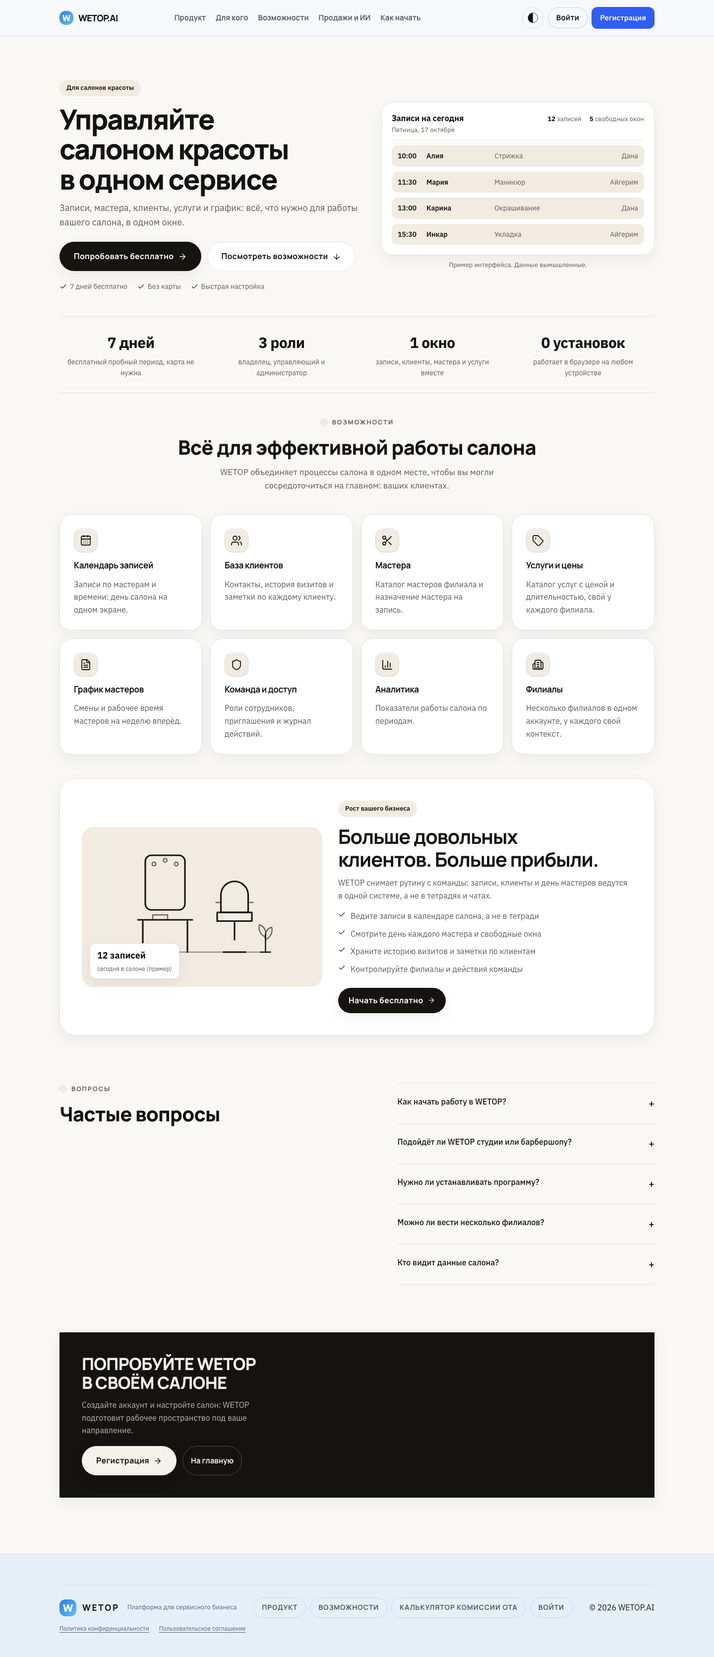
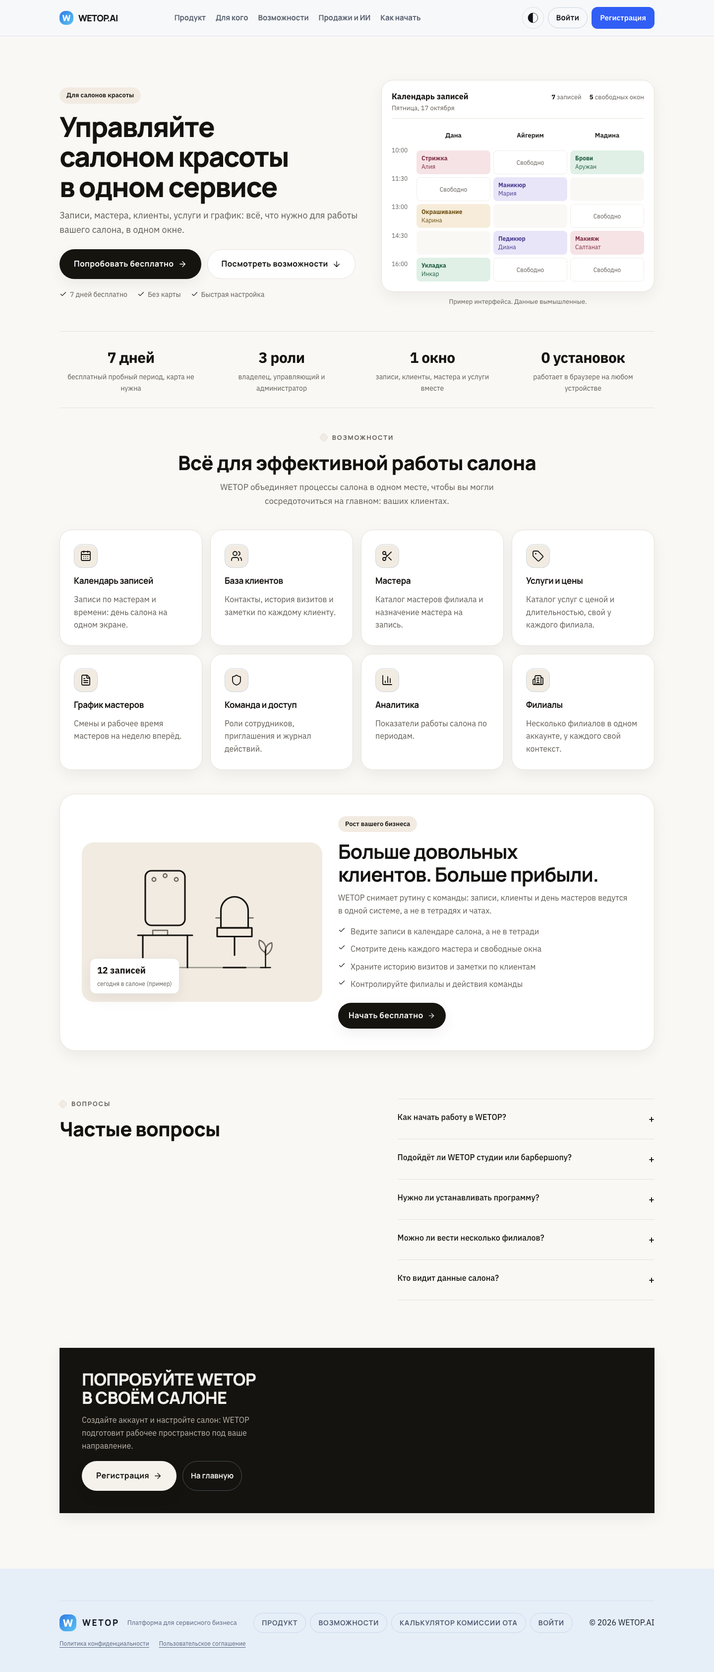
feat(site): salon hero mock becomes a per-master bookings calendar
Owner asked for a real salon calendar in the hero. Three master columns
(two on phone), pastel appointment chips (--salon-apt1..4 token pairs),
dashed free slots, time rail; fictional data with the example caption
kept. Red 1/5 -> green 5/5, full site suite 81/81, guard 6/6.

diff --git a/apps/site/src/app/globals.css b/apps/site/src/app/globals.css
@@ -3396,39 +3396,88 @@ button {
 .salon-hero__mock-summary strong {
   color: var(--salon-text);
 }
-.salon-hero__mock-row {
+.salon-hero__cal {
   display: grid;
-  grid-template-columns: 48px minmax(0, 1fr) minmax(0, 1.2fr) minmax(0, 1fr);
-  gap: 10px;
-  align-items: center;
-  padding: 10px 12px;
-  border-radius: var(--radius-control);
-  background: var(--salon-chip);
-  font-size: 0.875rem;
+  grid-template-columns: 44px repeat(3, minmax(0, 1fr));
+  gap: 6px;
 }
-.salon-hero__mock-time {
-  color: var(--salon-text);
-  font-weight: 600;
-  font-variant-numeric: tabular-nums;
-}
-.salon-hero__mock-client {
-  font-weight: 600;
-}
-.salon-hero__mock-service {
-  color: var(--salon-muted);
-}
-.salon-hero__mock-master {
-  color: var(--salon-muted);
-  text-align: right;
-}
-/* На узком экране строка записи складывается в две: время + клиент + мастер, ниже услуга во всю ширину */
+/* На телефоне третья колонка мастера прячется, календарь остаётся читаемым */
 @media (max-width: 40rem) {
-  .salon-hero__mock-row {
-    grid-template-columns: 48px minmax(0, 1fr) minmax(0, 1fr);
+  .salon-hero__cal {
+    grid-template-columns: 44px repeat(2, minmax(0, 1fr));
   }
-  .salon-hero__mock-service {
-    grid-column: 2 / 4;
+  .salon-hero__col:last-child {
+    display: none;
   }
+}
+.salon-hero__rail,
+.salon-hero__col {
+  display: grid;
+  gap: 6px;
+}
+.salon-hero__rail > span,
+.salon-hero__col > span {
+  min-height: 48px;
+}
+.salon-hero__rail > span {
+  display: flex;
+  align-items: flex-start;
+  color: var(--salon-muted);
+  font-size: 0.75rem;
+  font-variant-numeric: tabular-nums;
+  padding-top: 6px;
+}
+.salon-hero__master {
+  display: flex;
+  align-items: center;
+  justify-content: center;
+  min-height: 28px;
+  font-size: 0.8125rem;
+  font-weight: 600;
+}
+.salon-hero__rail .salon-hero__master {
+  min-height: 28px;
+}
+.salon-hero__apt {
+  display: grid;
+  gap: 2px;
+  align-content: center;
+  padding: 6px 10px;
+  border-radius: var(--radius-sm);
+  font-size: 0.75rem;
+  line-height: 1.3;
+}
+.salon-hero__apt strong {
+  font-size: 0.75rem;
+}
+.salon-hero__apt--1 {
+  background: var(--salon-apt1-bg);
+  color: var(--salon-apt1-ink);
+}
+.salon-hero__apt--2 {
+  background: var(--salon-apt2-bg);
+  color: var(--salon-apt2-ink);
+}
+.salon-hero__apt--3 {
+  background: var(--salon-apt3-bg);
+  color: var(--salon-apt3-ink);
+}
+.salon-hero__apt--4 {
+  background: var(--salon-apt4-bg);
+  color: var(--salon-apt4-ink);
+}
+.salon-hero__free {
+  display: flex;
+  align-items: center;
+  justify-content: center;
+  border: 1px dashed var(--salon-border);
+  border-radius: var(--radius-sm);
+  color: var(--salon-muted);
+  font-size: 0.75rem;
+}
+.salon-hero__slot {
+  border-radius: var(--radius-sm);
+  background: var(--salon-bg);
 }
 
 /* Полоса фактов: большие числа на светлой полосе, как в макете; только числа продукта (§19.9) */

diff --git a/apps/site/src/i18n/ru.ts b/apps/site/src/i18n/ru.ts
@@ -355,18 +355,41 @@ export const ru: Dictionary = {
     chips: ['7 дней бесплатно', 'Без карты', 'Быстрая настройка'],
     mock: {
       label: 'Пример интерфейса. Данные вымышленные.',
-      title: 'Записи на сегодня',
+      title: 'Календарь записей',
       date: 'Пятница, 17 октября',
       summary: [
-        { name: 'записей', value: '12' },
+        { name: 'записей', value: '7' },
         { name: 'свободных окон', value: '5' },
       ],
-      rows: [
-        { time: '10:00', client: 'Алия', service: 'Стрижка', master: 'Дана' },
-        { time: '11:30', client: 'Мария', service: 'Маникюр', master: 'Айгерим' },
-        { time: '13:00', client: 'Карина', service: 'Окрашивание', master: 'Дана' },
-        { time: '15:30', client: 'Инкар', service: 'Укладка', master: 'Айгерим' },
+      times: ['10:00', '11:30', '13:00', '14:30', '16:00'],
+      masters: [
+        {
+          name: 'Дана',
+          appointments: [
+            { time: '10:00', service: 'Стрижка', client: 'Алия', tone: 1 },
+            { time: '13:00', service: 'Окрашивание', client: 'Карина', tone: 4 },
+            { time: '16:00', service: 'Укладка', client: 'Инкар', tone: 3 },
+          ],
+          free: ['11:30'],
+        },
+        {
+          name: 'Айгерим',
+          appointments: [
+            { time: '11:30', service: 'Маникюр', client: 'Мария', tone: 2 },
+            { time: '14:30', service: 'Педикюр', client: 'Диана', tone: 2 },
+          ],
+          free: ['10:00', '16:00'],
+        },
+        {
+          name: 'Мадина',
+          appointments: [
+            { time: '10:00', service: 'Брови', client: 'Аружан', tone: 3 },
+            { time: '14:30', service: 'Макияж', client: 'Салтанат', tone: 1 },
+          ],
+          free: ['13:00', '16:00'],
+        },
       ],
+      freeLabel: 'Свободно',
     },
     facts: [
       { value: '7 дней', text: 'бесплатный пробный период, карта не нужна' },

diff --git a/apps/site/src/app/for/salons/page.tsx b/apps/site/src/app/for/salons/page.tsx
@@ -67,14 +67,36 @@ export default function SalonLandingPage() {
                   ))}
                 </div>
               </div>
-              {s.mock.rows.map((row) => (
-                <div className="salon-hero__mock-row" key={row.time}>
-                  <span className="salon-hero__mock-time">{row.time}</span>
-                  <span className="salon-hero__mock-client">{row.client}</span>
-                  <span className="salon-hero__mock-service">{row.service}</span>
-                  <span className="salon-hero__mock-master">{row.master}</span>
+              <div className="salon-hero__cal">
+                <div className="salon-hero__rail">
+                  <span className="salon-hero__master" aria-hidden="true" />
+                  {s.mock.times.map((time) => (
+                    <span key={time}>{time}</span>
+                  ))}
                 </div>
-              ))}
+                {s.mock.masters.map((master) => (
+                  <div className="salon-hero__col" key={master.name}>
+                    <span className="salon-hero__master">{master.name}</span>
+                    {s.mock.times.map((time) => {
+                      const apt = master.appointments.find((a) => a.time === time);
+                      if (apt)
+                        return (
+                          <span key={time} className={`salon-hero__apt salon-hero__apt--${apt.tone}`}>
+                            <strong>{apt.service}</strong>
+                            {apt.client}
+                          </span>
+                        );
+                      if (master.free.includes(time))
+                        return (
+                          <span key={time} className="salon-hero__free">
+                            {s.mock.freeLabel}
+                          </span>
+                        );
+                      return <span key={time} className="salon-hero__slot" />;
+                    })}
+                  </div>
+                ))}
+              </div>
             </div>
             <figcaption>{s.mock.label}</figcaption>
           </figure>

diff --git a/apps/site/src/i18n/types.ts b/apps/site/src/i18n/types.ts
@@ -199,13 +199,21 @@ export type Dictionary = {
     secondary: string;
     /** Чипы под кнопками героя: «7 дней бесплатно» и т.п. (ADR-098). */
     chips: string[];
-    /** Мокап «Записи на сегодня»: только вымышленные данные, подпись примера обязательна. */
+    /** Мокап-календарь записей по мастерам: только вымышленные данные, подпись примера обязательна. */
     mock: {
       label: string;
       title: string;
       date: string;
       summary: Array<{ name: string; value: string }>;
-      rows: Array<{ time: string; client: string; service: string; master: string }>;
+      /** Строки времени календаря; у мастера запись ищется по точному совпадению времени. */
+      times: string[];
+      masters: Array<{
+        name: string;
+        appointments: Array<{ time: string; service: string; client: string; tone: 1 | 2 | 3 | 4 }>;
+        /** Времена со «Свободно»: показываются пунктирной ячейкой. */
+        free: string[];
+      }>;
+      freeLabel: string;
     };
     /** Полоса фактов: только числа продукта (§19.9), чисел клиентов не бывает. */
     facts: Array<{ value: string; text: string }>;

diff --git a/tests/site/salon-landing.spec.ts b/tests/site/salon-landing.spec.ts
@@ -23,9 +23,12 @@ test('герой: заголовок, регистрация с направле
     'href',
     '#salon-features',
   );
-  // Мокап записей: вымышленные данные, подпись примера, интерактива внутри нет (§19.9)
+  // Мокап-календарь по мастерам: вымышленные данные, подпись примера, интерактива внутри нет (§19.9)
   await expect(hero).toContainText('Пример интерфейса. Данные вымышленные.');
   await expect(hero.locator('.salon-hero__mock a, .salon-hero__mock button')).toHaveCount(0);
+  expect(await hero.locator('.salon-hero__apt').count(), 'записей в календаре').toBeGreaterThanOrEqual(5);
+  await expect(hero.locator('.salon-hero__col').first()).toContainText('Дана');
+  await expect(hero.locator('.salon-hero__free').first()).toContainText('Свободно');
 });
 
 test('полоса фактов и возможности: восемь карточек, без выдуманных чисел', async ({ page }) => {

diff --git a/apps/site/src/app/tokens.css b/apps/site/src/app/tokens.css
@@ -335,4 +335,13 @@
   --salon-band-muted: #beb8ad;
   --salon-band-hover: #ffffff;
   --salon-shadow: 0 10px 30px rgba(21, 19, 15, 0.06);
+  /* Пастельные тона записей мокап-календаря: фон и текст парами, контраст не ниже 4.5 */
+  --salon-apt1-bg: #f6e3e6;
+  --salon-apt1-ink: #7f2d43;
+  --salon-apt2-bg: #e9e5f8;
+  --salon-apt2-ink: #46398f;
+  --salon-apt3-bg: #e0f0e6;
+  --salon-apt3-ink: #1f5c40;
+  --salon-apt4-bg: #f6ecd9;
+  --salon-apt4-ink: #6e4f14;
 }

diff --git a/CLAUDE.md b/CLAUDE.md
@@ -38,7 +38,7 @@
 
 **10.10.2026, левое контекстное меню вместо строки вкладок в шапке по ТЗ «Новая навигация админки» (локальная сессия, worktree `.claude/worktrees/sidebar-nav`, ветка `claude/sidebar-navigation`; ADR-161, DESIGN.md §8 «Левое меню»; поручение владельца с макетом и ТЗ «реализуй эту логику... четко как в ТЗ»).** На компьютере (с 961 px) слева колонка 232 px (`shell/side-nav.tsx`, `side-nav.css`): знак, синяя кнопка текущего раздела, под ней его подразделы, внизу пробный срок и свежесть Channex. Наведение или щелчок открывает панель: слева все разделы, справа подразделы наведённого; щелчок ведёт на страницу, панель закрывается, кнопка показывает новый раздел. Закрытие уходом курсора (150 мс и мостик через зазор), щелчком мимо, Escape, уходом фокуса, переходом; клавиатура ↓ ↑ → ← Home End (фокус через `flushSync`, потому что `requestAnimationFrame` в фоновой вкладке не срабатывает); анимация `--ease`, без неё при reduced motion. Состав и права прежние (`menuSectionsFor`, ADR-107), подразделы всех разделов лежат в разметке скрытыми, каждый адрес меню ровно один раз. Шапка одной строкой, `top-menu.tsx`/`.css` удалены; телефон и планшет без изменений. API, модель данных, права и миграции не менялись. **Тесты:** `top-menu.spec.ts` стал `side-nav.spec.ts` (**5/5**, `…13-10-00Z-e2e-3145.log`: поток ТЗ, клавиатура, вложенные адреса, axe в двух темах на 1024/1280/1440 и телефоне); 22 спека переведены с `.topmenu` на помощники `openSection`, `goViaMenu`, `menuLinks`, `sideNav` в `tests/ui/fixtures.ts` (грабля: закрытая панель `visibility: hidden`, поэтому `getByRole` в неё нужен с `includeHidden: true` или CSS-селектор); typecheck и lint чисто (`…13-14-10Z`, `…13-14-51Z`), сторожа дизайна 33/33 (литерал ширины стал местной `--sidenav-w`, внесена в сторож токенов). **Не доказано локально, прямо:** прогон 23 затронутых спеков на этом Mac снят при load average до 248 (чужие `tsc`, VM, `npm ci` соседних сессий; 31 зелёный, 16 красных таймаутами на входе); по решению владельца проверка идёт гейтом `release-checks` на ветке. Полный unit 4463/4478, 11 красных: 2 сторожа отступов (мои, исправлены), 9 под нагрузкой, отдельно 175/175. **Не сделано из макета:** «Быстрые действия» и «Уведомления» в колонке (экранов нет), подпись-описание раздела в панели (текстов нет в реестре); шаги обучения про разделы встают по центру, а не подсвечивают пункт закрытой панели.
 
-**10.10.2026, лендинг «Для салонов красоты» на `/for/salons/` по макету и ТЗ владельца (локальная сессия в worktree, ветка `claude/beauty-salons-landing` от `origin/main`; план `plans/salon-landing-2026-10-10.md`, отчёт и снимки `reports/salon-landing-2026-10-10/`).** Страница `/for/salons/` пересобрана из общего шаблона `for/[segment]` в полноценный лендинг по структуре ТЗ: герой с бейджем, двумя кнопками (регистрация `?vertical=BEAUTY` и якорь возможностей), чипами и мокапом «Записи на сегодня» (вымышленные данные, подпись примера); полоса фактов продукта; восемь возможностей `card-grid--4` (календарь записей, клиенты, мастера, услуги и цены, график, команда и доступ, аналитика, филиалы — всё из того, что есть в стойке салона); блок роста «Больше довольных клиентов. Больше прибыли.» с рисунком салона на SVG и пунктами без процентов; пять вопросов `.faq`; призыв `.cta`. Карточка «Салоны красоты» на главной и чип героя уже вели на этот адрес, менять их не пришлось. Новые блоки `.salon-hero`, `.salon-facts`, `.salon-growth` внесены в DESIGN.md §19.5; тексты в `i18n/ru.ts` → `salon`; `salons` ушёл из `for/[segment]` (SLUGS, словарь `segments.items`, `Exclude` в типе). **Отличия от макета по §19.9, прямо (Q-SALON-1…3):** «2 000+ салонов», «+40 %», «4.9★» и кейсы Luxe Beauty/Monroe Studio/Selfie Beauty не поставлены (клиентов и отзывов нет), тарифов нет (Q-141/Q-143), «14 дней бесплатно» заменено на «7 дней» (ADR-098), фото заменены мокапом и SVG (стоки запрещены, кредитов на генерацию нет). Red → green: новый `tests/site/salon-landing.spec.ts` 3 из 5 красных на старом шаблоне (`…12-18-03Z-e2e-912a`) → зелёный; сторож сайта 6/6 (`…12-23-12Z-unit-a086`). На полном наборе сайта 80 из 81 (`…12-23-46Z-e2e-c860`): единственный красный — контраст в тёмной теме на этой же новой странице, на спокойной машине не воспроизводился (0 нарушений axe вручную на 1440 и 390); вероятная причина — наезд длинной услуги на соседнюю колонку мокапа на 390 до загрузки шрифта, строка мокапа на телефоне переложена в две строки, итоговые прогоны см. в отчёте. API, модель данных, миграции и стойка не тронуты; выкладка главной — отдельный путь (`npm run site:deploy`, владелец, только из свежего клона `main`: рабочая папка на Mac отстаёт от GitHub на ~90 коммитов и держит незакоммиченный ресторанный модуль, запуск `site:deploy` из неё 10.10 был остановлен до выбора аккаунта wrangler). **Вторая итерация тем же днём (владелец: «я отправляю одно, а ты делаешь другое, заточено под дизайн-систему; вот его и делай»):** вид приведён 1:1 к макету, решение владельца поверх стеклянного направления (аналог ADR-132 и вкладок бара ADR-157): палитра `--salon-*` в `tokens.css` (тёплый светлый фон, белые сплошные карточки, чёрная кнопка, бежевые плашки и плитки иконок, тёмная финальная плита `.salon-cta`) живёт только внутри `.salon-page` подменой семантических токенов; стекла на странице нет; полоса фактов большими числами между линий; на иллюстрации роста плавающая карточка «12 записей» со словом «пример»; чип героя стал «Быстрая настройка», как в макете. Содержимое не менялось: по-прежнему без чисел клиентов, кейсов и тарифов (Q-SALON-1…3). **Плавающий красный гейта разобран до причины и закрыт:** axe замерял контраст кнопок посреди анимации перехода темы, потому что спеки ставили тему через localStorage, а она применяется после первой отрисовки (середина перехода давала фон #7c8188 при тексте #f2f7ff, 3.64); `salon-landing.spec.ts` и `public-intro.spec.ts` теперь ставят тему ещё и `emulateMedia({colorScheme, reducedMotion:'reduce'})`; падавшие «public intro: dark, 320/390» на моей странице не завязаны и краснели независимо. Настоящая вспышка светлой темы у пользователя с сохранённой тёмной остаётся особенностью сайта, названа владельцу. Прогоны финального вида: сторож 6/6 (`…13-43-20Z-unit-eda1`), полный набор сайта **81 из 81** (`…13-45-36Z-e2e-bbfc`), typecheck и lint чисто. **Третья итерация (владелец посмотрел живую в тёмной теме: «раньше лучше было»):** тёмный вариант тёплой палитры был мутно-коричневым; тёмные значения `--salon-*` сняты, страница всегда светлая, как макет (шапка и подвал общие); спек салонов 5/5 (`…14-38-38Z-e2e-1408`), полный набор **81 из 81** (`…15-13-45Z-e2e-2e6e`), typecheck и lint чисто.
+**10.10.2026, лендинг «Для салонов красоты» на `/for/salons/` по макету и ТЗ владельца (локальная сессия в worktree, ветка `claude/beauty-salons-landing` от `origin/main`; план `plans/salon-landing-2026-10-10.md`, отчёт и снимки `reports/salon-landing-2026-10-10/`).** Страница `/for/salons/` пересобрана из общего шаблона `for/[segment]` в полноценный лендинг по структуре ТЗ: герой с бейджем, двумя кнопками (регистрация `?vertical=BEAUTY` и якорь возможностей), чипами и мокапом «Записи на сегодня» (вымышленные данные, подпись примера); полоса фактов продукта; восемь возможностей `card-grid--4` (календарь записей, клиенты, мастера, услуги и цены, график, команда и доступ, аналитика, филиалы — всё из того, что есть в стойке салона); блок роста «Больше довольных клиентов. Больше прибыли.» с рисунком салона на SVG и пунктами без процентов; пять вопросов `.faq`; призыв `.cta`. Карточка «Салоны красоты» на главной и чип героя уже вели на этот адрес, менять их не пришлось. Новые блоки `.salon-hero`, `.salon-facts`, `.salon-growth` внесены в DESIGN.md §19.5; тексты в `i18n/ru.ts` → `salon`; `salons` ушёл из `for/[segment]` (SLUGS, словарь `segments.items`, `Exclude` в типе). **Отличия от макета по §19.9, прямо (Q-SALON-1…3):** «2 000+ салонов», «+40 %», «4.9★» и кейсы Luxe Beauty/Monroe Studio/Selfie Beauty не поставлены (клиентов и отзывов нет), тарифов нет (Q-141/Q-143), «14 дней бесплатно» заменено на «7 дней» (ADR-098), фото заменены мокапом и SVG (стоки запрещены, кредитов на генерацию нет). Red → green: новый `tests/site/salon-landing.spec.ts` 3 из 5 красных на старом шаблоне (`…12-18-03Z-e2e-912a`) → зелёный; сторож сайта 6/6 (`…12-23-12Z-unit-a086`). На полном наборе сайта 80 из 81 (`…12-23-46Z-e2e-c860`): единственный красный — контраст в тёмной теме на этой же новой странице, на спокойной машине не воспроизводился (0 нарушений axe вручную на 1440 и 390); вероятная причина — наезд длинной услуги на соседнюю колонку мокапа на 390 до загрузки шрифта, строка мокапа на телефоне переложена в две строки, итоговые прогоны см. в отчёте. API, модель данных, миграции и стойка не тронуты; выкладка главной — отдельный путь (`npm run site:deploy`, владелец, только из свежего клона `main`: рабочая папка на Mac отстаёт от GitHub на ~90 коммитов и держит незакоммиченный ресторанный модуль, запуск `site:deploy` из неё 10.10 был остановлен до выбора аккаунта wrangler). **Вторая итерация тем же днём (владелец: «я отправляю одно, а ты делаешь другое, заточено под дизайн-систему; вот его и делай»):** вид приведён 1:1 к макету, решение владельца поверх стеклянного направления (аналог ADR-132 и вкладок бара ADR-157): палитра `--salon-*` в `tokens.css` (тёплый светлый фон, белые сплошные карточки, чёрная кнопка, бежевые плашки и плитки иконок, тёмная финальная плита `.salon-cta`) живёт только внутри `.salon-page` подменой семантических токенов; стекла на странице нет; полоса фактов большими числами между линий; на иллюстрации роста плавающая карточка «12 записей» со словом «пример»; чип героя стал «Быстрая настройка», как в макете. Содержимое не менялось: по-прежнему без чисел клиентов, кейсов и тарифов (Q-SALON-1…3). **Плавающий красный гейта разобран до причины и закрыт:** axe замерял контраст кнопок посреди анимации перехода темы, потому что спеки ставили тему через localStorage, а она применяется после первой отрисовки (середина перехода давала фон #7c8188 при тексте #f2f7ff, 3.64); `salon-landing.spec.ts` и `public-intro.spec.ts` теперь ставят тему ещё и `emulateMedia({colorScheme, reducedMotion:'reduce'})`; падавшие «public intro: dark, 320/390» на моей странице не завязаны и краснели независимо. Настоящая вспышка светлой темы у пользователя с сохранённой тёмной остаётся особенностью сайта, названа владельцу. Прогоны финального вида: сторож 6/6 (`…13-43-20Z-unit-eda1`), полный набор сайта **81 из 81** (`…13-45-36Z-e2e-bbfc`), typecheck и lint чисто. **Третья итерация (владелец посмотрел живую в тёмной теме: «раньше лучше было»):** тёмный вариант тёплой палитры был мутно-коричневым; тёмные значения `--salon-*` сняты, страница всегда светлая, как макет (шапка и подвал общие); спек салонов 5/5 (`…14-38-38Z-e2e-1408`), полный набор **81 из 81** (`…15-13-45Z-e2e-2e6e`), typecheck и lint чисто. **Четвёртая итерация («давай тут календарь добавь»):** мокап героя стал календарём записей по мастерам (три колонки, пастельные записи тонами `--salon-apt1…4`, «Свободно» пунктиром, на телефоне две колонки); red → green 1 из 5 → 5/5 (`…15-50-35Z-e2e-8cc4`), полный набор **81 из 81** (`…15-51-34Z-e2e-72b3`). Владелец предложил дать ключ сервиса генерации изображений для настоящих фото на лендингах; жду имя переменной в `.env` (значение вписывает владелец, SECURITY.md).
 
 **10.10.2026, «Продажи 2.0» целиком по макету владельца: хаб, «Загрузка конкурентов» с ценами, «ИИ-продавец» с семью вкладками, версии инструкции, ведение диалога (ветка `claude/sales2-impl`, слита с `main`; владелец «окей норм иди дальше» по снимкам и «подготовь всё и сливаем»).** **Что в `main`:** хаб `/sales` (6 плиток, 3 карточки); конкуренты: район, тип, адрес, режим мониторинга, цены за ночь (`competitor_rates`, DATA_MODEL §23.1), список со свежестью данных, отбор, график цен, окно «Добавить конкурента» с вкладкой «AI-поиск» как честной заглушкой (площадки автоматически не читаем, ADR-142 п. 7); ИИ-продавец: «Обзор», «Диалоги» в три колонки с поиском, ответственным, следующим шагом и внутренними заметками, «Подключения» со сводкой каналов, «Сценарии» (список; конструктор SA3 не начат), «Аналитика» (воронка предложение, бронь, выручка; доля без человека, передачи, время первого ответа за сутки), версии инструкции с возвратом (DATA_MODEL §33). **Миграции, которые применяет владелец на рабочей базе ДО выкладки кода (иначе автовыкладка откажет, ADR-152):** PMS `20261009000070_competitor_rates` (отдельно от одноимённого по номеру `…070_accommodation_type_photos`, имена разные) и `20261010000078_seller_prompt_versions`; бот `0012_conversation_handling` ставится САМИМ образом при старте: это ветка от `0009` (не продолжение `0010/0011`, которые остаются ручными), точка входа бота (`scripts/docker-entrypoint.sh`) теперь после `upgrade 0009` делает `upgrade 0012`, а модель бота читает её колонки, поэтому образ с ними нельзя запускать на базе без `0012` (находка: тест `test_the_runtime_by_agent_works_on_the_expand_schema` падал ровно на этом). Руками ничего применять не нужно, достаточно пересобрать образ бота; у цепочки теперь две головы (`0011` и `0012`), тесты применяют `heads`. Откат каждой проверен на локальной базе вверх, вниз, снова вверх; все аддитивные. **Проверки на слитом дереве:** typecheck и lint чисто, unit 4471 из 4478 (красные: `guard-run` ADR-137 и `auth.service` scrypt красны и без моих правок, `test-journal-merge` зелёный отдельно, под нагрузкой плавает), integration 995 из 995 на настоящей локальной базе, бот: метрики, ведение диалога, очередь и область агента 44 из 44, UI затронутых наборов зелёные по частям (рынок, хаб, продавец, меню, роли). Мутации по каждой новой логике краснеют. **Не сделано и почему:** автообновление цен конкурентов и AI-поиск (нужен разрешённый источник данных, Q-257…Q-260 закрыты умолчанием «площадки не читаем»), версии документов знаний (у документа в боте нет прошлых редакций), конструктор сценариев SA3 (отдельное решение), таблица каналов с действиями. Грабли: `SetupWizard` берёт шаг по номеру дочернего элемента, поэтому новый блок мастера вкладывается в существующий шаг, а не добавляется рядом; первый прямой переход после смены роли в подставном API разворачивает стойку на стартовую страницу роли (тесты идут через неё и меню); heredoc с кириллицей в `/usr/bin/python3` 3.9 падает на длинных строках, скрипты запускать как `exec(compile(open(f,encoding='utf-8').read(),...))`.
 

diff --git a/DESIGN.md b/DESIGN.md
@@ -1000,7 +1000,7 @@ ADR-132 у главной): палитра `--salon-*` из `tokens.css` (тёп
 | Блок | Что это | Из чего собран | Правила |
 |---|---|---|---|
 | `.salon-page` | Область лендинга салонов | обёртка `.page`: фон `--salon-bg`, подмена `--text`/`--text-2`/`--muted`/`--border`/`--primary`/`--shadow-card` на `--salon-*`, сплошные `.card` и `.cta`, чёрная `.btn--primary` | палитра макета не выходит за `.salon-page`; литералов нет, цвета только токенами `--salon-*` |
-| `.salon-hero` | Первый экран лендинга салонов | бежевый бейдж-пилюля, заголовок `.page-header__title`, кнопки, чипы с галочками; справа мокап «Записи на сегодня» сплошной карточкой с подписью примера | мокап только с вымышленными данными и подписью примера (§19.9); интерактива в мокапе нет; вместо фото из макета (Q-SALON-3) |
+| `.salon-hero` | Первый экран лендинга салонов | бежевый бейдж-пилюля, заголовок `.page-header__title`, кнопки, чипы с галочками; справа мокап-календарь записей по мастерам (колонки мастеров, пастельные записи тонами `--salon-apt*`, пунктирное «Свободно») с подписью примера | мокап только с вымышленными данными и подписью примера (§19.9); интерактива в мокапе нет; на телефоне колонок мастеров две; вместо фото из макета (Q-SALON-3) |
 | `.salon-facts` | Полоса фактов продукта | четыре больших числа с подписями между линий, по центру, как в макете | только числа продукта (§19.9): «7 дней», «3 роли», «1 окно», «0 установок»; чисел клиентов и рейтингов не бывает |
 | `.salon-growth` | «Больше довольных клиентов. Больше прибыли.» | сплошная плита: рисунок салона на SVG на бежевой плитке с плавающей карточкой-примером, бейдж, пункты с галочками, кнопка регистрации | без процентов результата и фото (§19.9); плавающая карточка — вымышленное число со словом «пример» |
 | `.salon-cta` | Финальный призыв лендинга салонов | модификатор `.cta`: тёмная плита `--salon-band`, светлая кнопка, ссылка «На главную» светлым | как тёмные секции макета; разделителя « · » и чисел клиентов не бывает (§19.9) |

diff --git a/reports/salon-landing-2026-10-10/README.md b/reports/salon-landing-2026-10-10/README.md
@@ -75,6 +75,14 @@
 Прогоны: спек салонов 5/5 (`…14-38-38Z-e2e-1408.log`), сторож 6/6, полный набор сайта
 **81 из 81** (`…15-13-45Z-e2e-2e6e.log`), typecheck и lint чисто.
 
+## Четвёртая итерация: календарь записей в герое (10.10.2026, поручение «давай тут календарь добавь»)
+
+Мокап-список в герое заменён мокап-календарём по мастерам, как в настоящих программах записи:
+три колонки мастеров (на телефоне две), пастельные записи тонами `--salon-apt1…4` (услуга +
+клиент), пунктирные ячейки «Свободно», рельса времени. Данные вымышленные, подпись примера
+на месте. Снимок `hero-calendar.png`. Red → green: 1 из 5 (`…15-44-…`) → 5 из 5
+(`…15-50-35Z-e2e-8cc4.log`); сторож 6/6; полный набор сайта **81 из 81** (`…15-51-34Z-e2e-72b3.log`).
+
 ## Что не тронуто
 
 API, модель данных, миграции, стойка (`apps/web`), бот. Выкладка главной — отдельный путь
